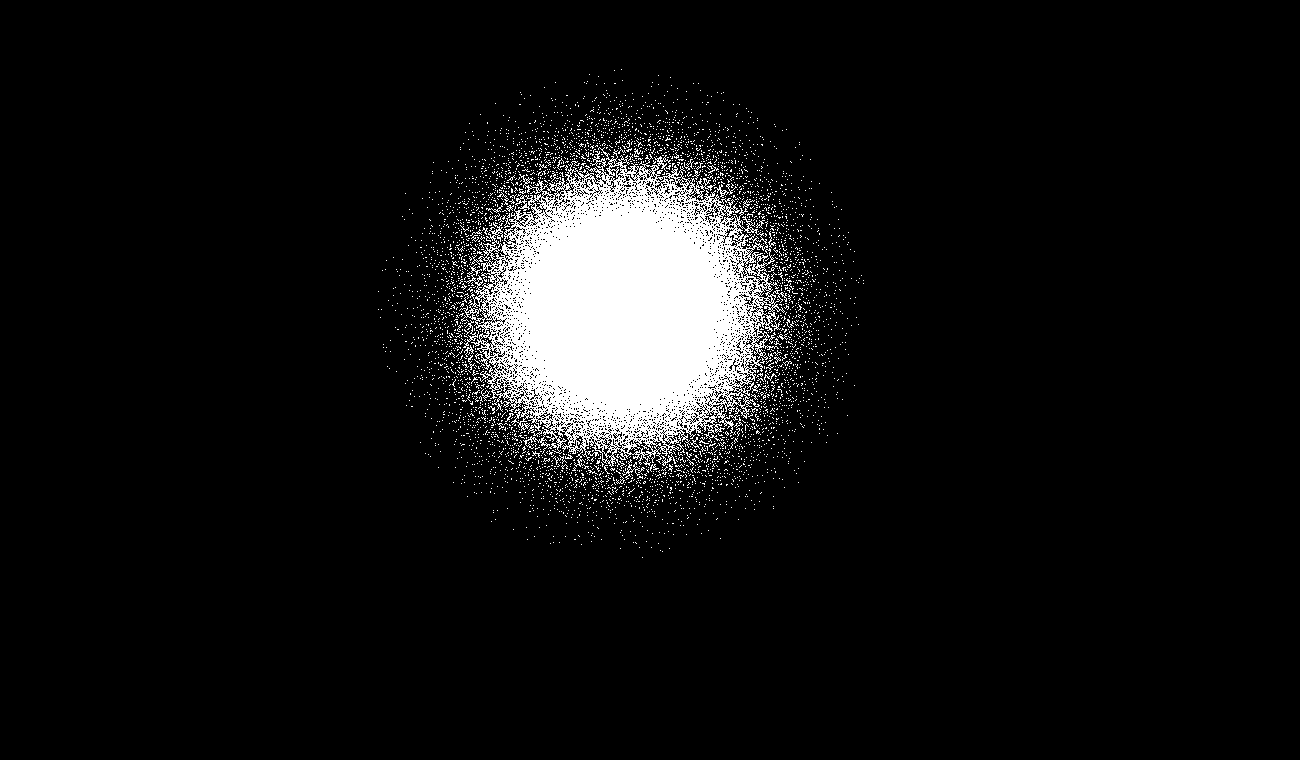
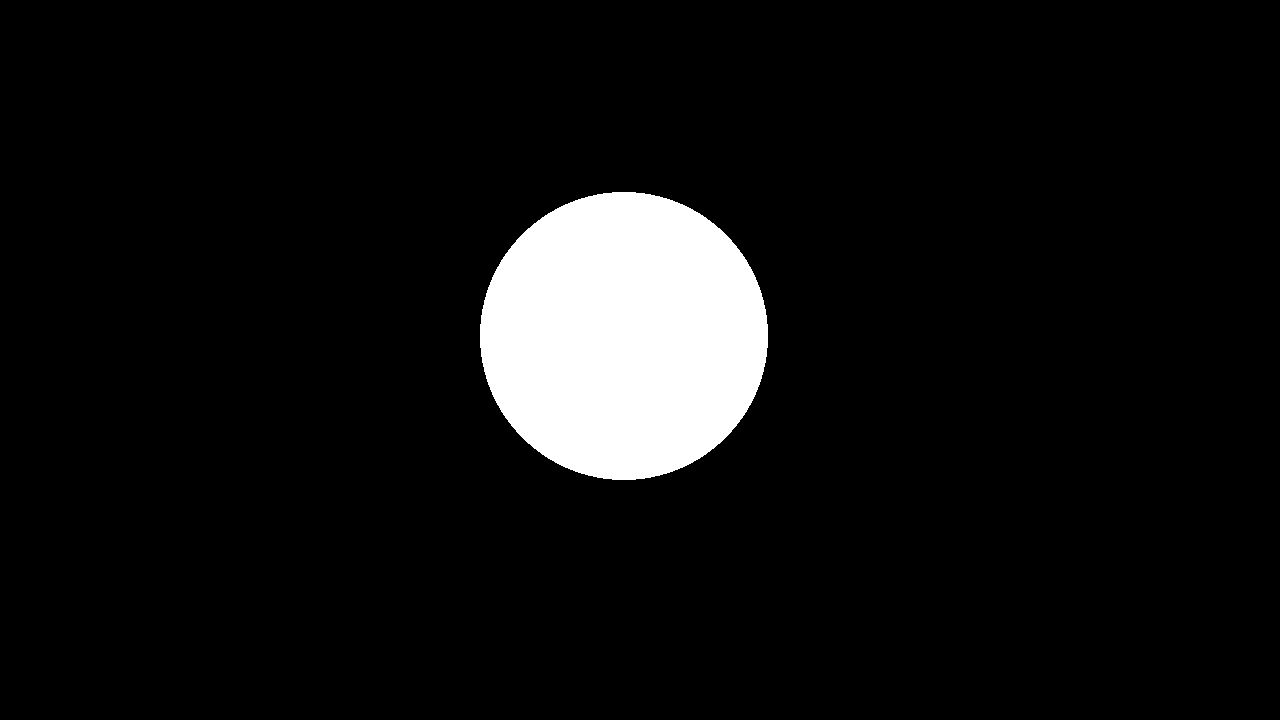
优化地图加载及游戏对象管理

Changed region(s): [[0.3125, 0.1222, 0.6562, 0.6722]]

diff --git a/include/scene/game_scene.h b/include/scene/game_scene.h
@@ -39,31 +39,26 @@ public:
     {
         camera->reset();
         player = new Player();
-        door = new Door({64 * 0, 64 * 20});
         player->set_position({100, 100});
+        // 道具在这里添加
+        game_object_loop = {
+            new PropBullet({64 * 1, 64 * 3}),
+            new Flashlight({64 * 1, 64 * 3}),
+        };
+
         // 随机选择地图
         int level = rand() % 2;
-        char(*select_map)[22];
         if (level == 0)
-            select_map = map0;
-        else if (level == 1)
-            select_map = map1;
-        // 加载地图
-        for (int i = 0; i < 22; i++)
         {
-            std::vector<GameObject *> m;
-            char *row_ptr = *(select_map + i);
-            for (int j = 0; j < 22; j++)
-            {
-                if (*(row_ptr + j) == '1')
-                    m.push_back(new Wall({j * 64.0f, i * 64.0f}));
-                else if (*(row_ptr + j) == '0')
-                    m.push_back(new Floor({j * 64.0f, i * 64.0f}));
-                else
-                    m.push_back(nullptr);
-            }
-            map.push_back(m);
+            load_map(this->map0);
+            door = new Door({64 * 20, 64 * 20});
         }
+        else if (level == 1)
+        {
+            load_map(this->map1);
+            door = new Door({64 * 20, 64 * 20});
+        }
+        // 随机生成怪物
         for (int i = 0; i < 10; i++)
         {
             enemy_loop.push_back(new Enemy({(float)(rand() % 1280), (float)(rand() % 720)}));
@@ -78,18 +73,22 @@ public:
                 delete w;
         for (auto &enemy : enemy_loop)
             delete enemy;
+        for (GameObject *game_object : game_object_loop)
+            delete game_object;
         map.clear();
         enemy_loop.clear();
+        game_object_loop.clear();
         delete door;
         delete player;
-        player = nullptr;
         stop_all_audio();
     };
     void on_update(float delta)
     {
         player->on_update(delta);
-        door->on_update(delta);
-        propbullet.on_update(delta);
+        // door->on_update(delta);
+        for (GameObject *game_object : game_object_loop)
+            game_object->on_update(delta);
+
         for (auto &enemy : enemy_loop)
         {
             Vector2 pos1 = player->get_position();
@@ -126,9 +125,11 @@ public:
                 return;
             }
         }
+        for (GameObject *game_object : game_object_loop)
+            game_object->on_draw();
+
         player->on_draw();
         door->on_draw();
-        propbullet.on_draw();
 
         setbkmode(TRANSPARENT);
         settextcolor(WHITE);
@@ -137,7 +138,10 @@ public:
         Rect r;
         // 绘制视野
         r = {0, 0, 1300, 720};
-        // putimage_ex(res_manager->get_image("z0"), &r);
+        if(!player->get_has_flashlight())
+            putimage_ex(res_manager->get_image("z0"), &r);
+        else
+            putimage_ex(res_manager->get_image("z1"), &r);
         // 绘制爱心图标
         r = {0, 0, 64, 64};
         putimage_ex(res_manager->get_image("爱心"), &r);
@@ -160,8 +164,27 @@ private:
     std::vector<Enemy *> enemy_loop;
     ProgressBar sp_progress_bar = ProgressBar(10, 80, 150, 15);
     Door *door = nullptr;
-    PropBullet propbullet = PropBullet({64 * 2, 64 * 1});
+    std::vector<GameObject *> game_object_loop;
 
+    // 加载地图
+    void load_map(char (*select_map)[22])
+    {
+        for (int i = 0; i < 22; i++)
+        {
+            std::vector<GameObject *> m;
+            char *row_ptr = *(select_map + i);
+            for (int j = 0; j < 22; j++)
+            {
+                if (*(row_ptr + j) == '1')
+                    m.push_back(new Wall({j * 64.0f, i * 64.0f}));
+                else if (*(row_ptr + j) == '0')
+                    m.push_back(new Floor({j * 64.0f, i * 64.0f}));
+                else
+                    m.push_back(nullptr);
+            }
+            map.push_back(m);
+        }
+    }
     char map0[22][22] = {
         '1', '1', '1', '1', '1', '1', '1', '1', '1', '1', '1', '1', '1', '1', '1', '1', '1', '1', '1', '1', '1', '1',
         '1', '0', '0', '0', '0', '0', '0', '0', '1', '1', '0', '0', '0', '0', '0', '0', '0', '0', '0', '1', '0', '1',

diff --git a/src/resources_manager.cpp b/src/resources_manager.cpp
@@ -40,6 +40,7 @@ static const std::vector<ImageInfo> image_info_list = {
     {"通关画面", _T("res/img/通关画面.jpg")},
     {"大门", _T("res/img/大门.png")},
     {"z0", _T("res/img/z0.png")},
+    {"z1", _T("res/img/z1.png")},
     {"惊吓", _T("res/img/惊吓.jpg")},
     {"手电筒", _T("res/img/手电筒.png")},
 };
